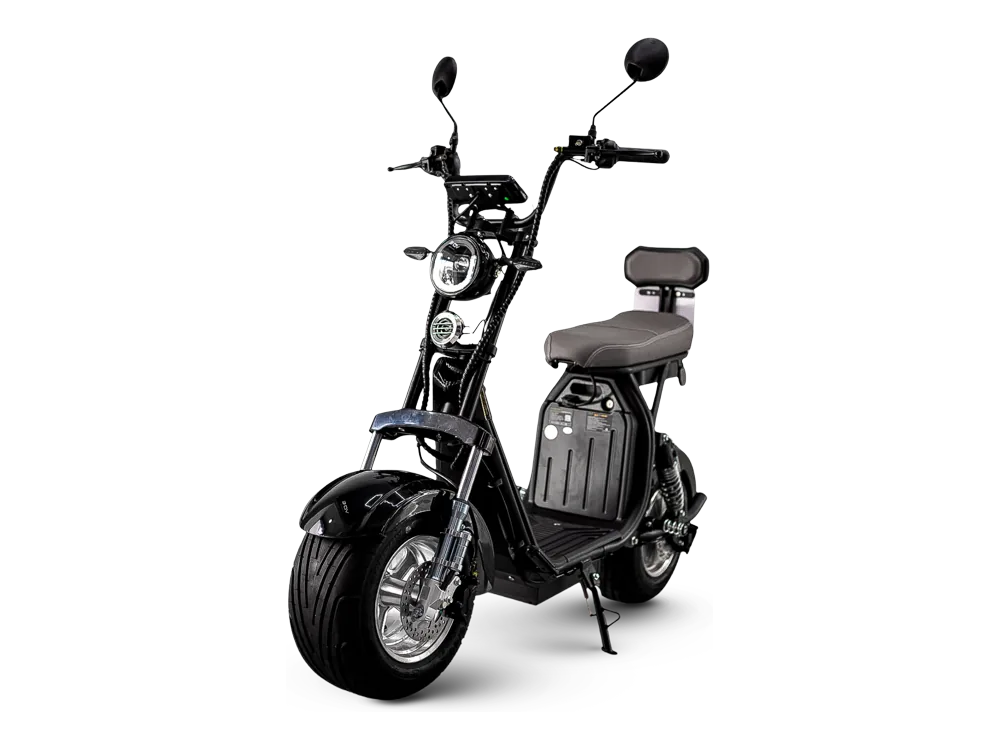
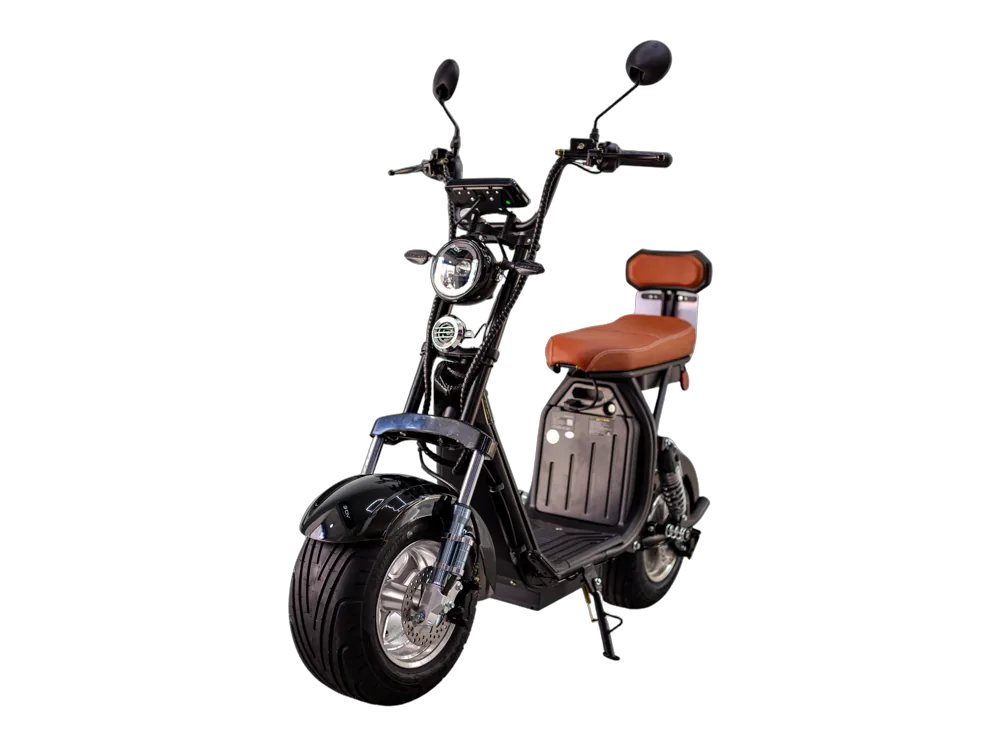
feat: capas novas e cores de Dot, Fantom, Sol, Calebito e X-Infinity
- Capas com as fotos novas recortadas: Susan, Dot, Fantom, Sol, Calebito,
  X-Infinity e X11 Mini (preta com banco caramelo).
- Fotos por cor em Dot, Fantom, Sol, Calebito e X-Infinity, com a cor
  carbono na X-Infinity.

Changed region(s): [[0.279, 0.0613, 0.713, 0.9507], [0.62, 0.0307, 0.682, 0.1227]]

diff --git a/assets/js/catalogo.js b/assets/js/catalogo.js
@@ -138,6 +138,11 @@ const COR = {
      dos dois tons e o bege puro sao a mesma pintura, com o mesmo hex. */
   vinhobege: { nome: 'Vinho e bege', bicolor: ['#58222C', '#DBD6C7'] },
   pretobege: { nome: 'Preto e bege', bicolor: ['#101011', '#DBD6C7'] },
+
+  /* Pintura com trama de fibra de carbono (X-Infinity). A bolinha é um
+     recorte da trama tirado da própria foto: em hex chapado ela seria um
+     cinza escuro quase igual à bolinha do preto ao lado. */
+  carbono: { nome: 'Carbono', hex: '#3A3A3A', imagem: 'assets/img/swatches/carbono.webp' },
 };
 
 const cores = (...chaves) => chaves.map((k) => COR[k]);
@@ -393,7 +398,8 @@ window.URBANA_MODELOS = [
     categoria: 'autopropelido',
     classificacao: 'autopropelido',
     descritivo: 'Bicicleta elétrica',
-    alt: 'Bicicleta elétrica Voe Calebito preta e branca com cesta, recorte sem fundo',
+    foto: 'assets/img/models/voe-calebito-capa.webp',
+    alt: 'Bicicleta elétrica Voe Calebito branca e preta com cesta, recorte sem fundo',
     specs: {
       ...VOE_AUTO,
       potencia: { valor: 500, unidade: 'W' },
@@ -403,12 +409,24 @@ window.URBANA_MODELOS = [
       ocupantes: 'Até 130 kg',
     },
     equipamentos: [...VOE_EQUIP_BASE, 'Travamento de roda traseira', 'Cesta frontal'],
-    cores: cores('branco', 'preto', 'cinza'),
+    /* Capa: a foto branca com o fundo removido (BiRefNet, via rembg; original
+       em MIDIAS/recortes/). Branco primeiro para o modal abrir nessa mesma foto.
+       A loja mandou foto só de branca e preta; o cinza do catálogo antigo saiu,
+       porque sem foto própria o swatch cinza mostraria a moto branca. */
+    cores: [
+      { ...COR.branco, galeria: [
+        { src: 'assets/img/models/voe-calebito-cor-branco.webp', alt: 'Voe Calebito branca e preta com cesta frontal, de perfil', recorte: false, inteira: true, fundo: '#FCFCFC' },
+      ] },
+      { ...COR.preto, galeria: [
+        { src: 'assets/img/models/voe-calebito-cor-preto.webp', alt: 'Voe Calebito preta com cesta frontal, de perfil', recorte: false, inteira: true, fundo: '#FDFDFD' },
+      ] },
+    ],
   }),
   voe('dot', 'Dot', {
     categoria: 'autopropelido',
     classificacao: 'autopropelido',
-    alt: 'Scooter elétrica Voe Dot cinza com baú, recorte sem fundo',
+    foto: 'assets/img/models/voe-dot-capa.webp',
+    alt: 'Scooter elétrica Voe Dot preta com faixa laranja, recorte sem fundo',
     specs: {
       ...VOE_AUTO,
       potencia: { valor: 1000, unidade: 'W' },
@@ -418,12 +436,29 @@ window.URBANA_MODELOS = [
       ocupantes: 'Até 150 kg',
     },
     equipamentos: [...VOE_EQUIP_BASE, 'Travamento de roda traseira', 'Retrovisores'],
-    cores: cores('branco', 'preto', 'cinza'),
+    /* Cores confirmadas pela loja: preta, branca e prata. A capa é a foto
+       preta com o fundo removido (BiRefNet, via rembg; original do recorte em
+       MIDIAS/recortes/): é a que mais vende, segundo a loja. A preta vem
+       primeiro para o modal abrir nessa mesma foto. O "cinza" do catálogo
+       antigo era a prata azulada. O COR.prata da paleta puxa para o rosado
+       (#A7A1A6); o hex aqui saiu da lataria. */
+    cores: [
+      { ...COR.preto, galeria: [
+        { src: 'assets/img/models/voe-dot-cor-preto.webp', alt: 'Voe Dot preta com faixa laranja, em três quartos frontal', recorte: false, inteira: true, fundo: '#FBFBFB' },
+      ] },
+      { ...COR.prata, hex: '#CFD0D4', galeria: [
+        { src: 'assets/img/models/voe-dot-cor-prata.webp', alt: 'Voe Dot prata com faixa laranja, em três quartos frontal', recorte: false, inteira: true, fundo: '#F9FAFA' },
+      ] },
+      { ...COR.branco, galeria: [
+        { src: 'assets/img/models/voe-dot-cor-branco.webp', alt: 'Voe Dot branca com faixa laranja, em três quartos frontal', recorte: false, inteira: true, fundo: '#F8F9F9' },
+      ] },
+    ],
   }),
   voe('fantom', 'Fantom', {
     categoria: 'autopropelido',
     classificacao: 'autopropelido',
-    alt: 'Scooter elétrica Voe Fantom branca com baú, recorte sem fundo',
+    foto: 'assets/img/models/voe-fantom-capa.webp',
+    alt: 'Scooter elétrica Voe Fantom branca e preta com baú, recorte sem fundo',
     specs: {
       ...VOE_AUTO,
       potencia: { valor: 1000, unidade: 'W' },
@@ -433,7 +468,20 @@ window.URBANA_MODELOS = [
       ocupantes: 'Até 150 kg',
     },
     equipamentos: [...VOE_EQUIP_BASE, 'Travamento de roda traseira', 'Retrovisores'],
-    cores: cores('branco', 'preto', 'cinza'),
+    /* Capa: a foto branca com o fundo removido (BiRefNet, via rembg; original
+       em MIDIAS/recortes/). Branco primeiro para o modal abrir nessa mesma
+       foto. O cinza saiu da lataria: o COR.cinza (#575757) é bem mais escuro. */
+    cores: [
+      { ...COR.branco, galeria: [
+        { src: 'assets/img/models/voe-fantom-cor-branco.webp', alt: 'Voe Fantom branca e preta com baú, de perfil em três quartos', recorte: false, inteira: true, fundo: '#FEFEFE' },
+      ] },
+      { ...COR.cinza, hex: '#919BA3', galeria: [
+        { src: 'assets/img/models/voe-fantom-cor-cinza.webp', alt: 'Voe Fantom cinza e preta com baú, de perfil em três quartos', recorte: false, inteira: true, fundo: '#FEFEFE' },
+      ] },
+      { ...COR.preto, galeria: [
+        { src: 'assets/img/models/voe-fantom-cor-preto.webp', alt: 'Voe Fantom preta com baú, de perfil em três quartos', recorte: false, inteira: true, fundo: '#FEFEFE' },
+      ] },
+    ],
   }),
   voe('lux', 'Lux', {
     categoria: 'autopropelido',
@@ -511,7 +559,8 @@ window.URBANA_MODELOS = [
     categoria: 'autopropelido',
     classificacao: 'autopropelido',
     descritivo: 'Bicicleta elétrica',
-    alt: 'Bicicleta elétrica Voe Sol preta com cesta e baú, recorte sem fundo',
+    foto: 'assets/img/models/voe-sol-capa.webp',
+    alt: 'Bicicleta elétrica Voe Sol preta com cesta frontal e baú, recorte sem fundo',
     specs: {
       ...VOE_AUTO,
       potencia: { valor: 1000, unidade: 'W' },
@@ -521,12 +570,28 @@ window.URBANA_MODELOS = [
       ocupantes: 'Até 150 kg',
     },
     equipamentos: [...VOE_EQUIP_BASE, 'Baú de 27 litros', 'Retrovisores', 'Cesta frontal'],
-    cores: cores('branco', 'preto', 'cinza'),
+    /* Cores confirmadas pela loja: preta, branca e prata (o "cinza" do
+       catálogo antigo). A capa é a foto preta com o fundo removido (BiRefNet,
+       via rembg; original em MIDIAS/recortes/), e a preta vem primeiro para o
+       modal abrir nessa mesma foto. A prata usa o tom da lataria: o COR.prata
+       da paleta puxa para o rosado. */
+    cores: [
+      { ...COR.preto, galeria: [
+        { src: 'assets/img/models/voe-sol-cor-preto.webp', alt: 'Voe Sol preta com cesta frontal e baú, em três quartos frontal', recorte: false, inteira: true, fundo: '#FAFAFC' },
+      ] },
+      { ...COR.branco, galeria: [
+        { src: 'assets/img/models/voe-sol-cor-branco.webp', alt: 'Voe Sol branca com cesta frontal e baú, em três quartos frontal', recorte: false, inteira: true, fundo: '#FDFDFD' },
+      ] },
+      { ...COR.prata, hex: '#CDCED0', galeria: [
+        { src: 'assets/img/models/voe-sol-cor-prata.webp', alt: 'Voe Sol prata com cesta frontal e baú, em três quartos frontal', recorte: false, inteira: true, fundo: '#FEFEFE' },
+      ] },
+    ],
   }),
   voe('susan', 'Susan', {
     categoria: 'autopropelido',
     classificacao: 'autopropelido',
-    alt: 'Scooter elétrica Voe Susan bordô e creme, desenho retrô, recorte sem fundo',
+    foto: 'assets/img/models/voe-susan-capa.webp',
+    alt: 'Scooter elétrica Voe Susan vinho e bege, desenho retrô, com baú, recorte sem fundo',
     specs: {
       ...VOE_AUTO,
       potencia: { valor: 1000, unidade: 'W' },
@@ -538,9 +603,10 @@ window.URBANA_MODELOS = [
     equipamentos: [...VOE_EQUIP_BASE, 'Baú', 'Retrovisores'],
     /* Cores confirmadas pela loja. As fotos são de estúdio, com fundo cinza:
        no modal cabem inteiras, e a área vazia leva o cinza da própria foto.
-       O card segue com o recorte do catálogo, que é a mesma pintura vinho e
-       bege: foto com fundo viraria um retângulo cinza numa vitrine de
-       recortes. Por isso vinho e bege vem primeiro, o modal abre nela. */
+       A capa é a MESMA foto vinho e bege, com o fundo removido (BiRefNet, via
+       rembg; original do recorte em MIDIAS/recortes/). Com fundo, ela viraria
+       um retângulo cinza numa vitrine de recortes. Vinho e bege vem primeiro
+       para o modal abrir na foto da capa. */
     cores: [
       { ...COR.vinhobege, galeria: [
         { src: 'assets/img/models/voe-susan-cor-vinhobege.webp', alt: 'Voe Susan vinho e bege, retrô, com baú vinho, em três quartos frontal', recorte: false, inteira: true, fundo: '#E5E7EA' },
@@ -588,7 +654,8 @@ window.URBANA_MODELOS = [
   voe('x-infinity', 'X-Infinity', {
     categoria: 'autopropelido',
     classificacao: 'autopropelido',
-    alt: 'Scooter elétrica Voe X-Infinity preta de pneus largos, recorte sem fundo',
+    foto: 'assets/img/models/voe-x-infinity-capa.webp',
+    alt: 'Scooter elétrica Voe X-Infinity preta com banco caramelo e pneus largos, recorte sem fundo',
     specs: {
       ...VOE_AUTO,
       potencia: { valor: 1000, unidade: 'W' },
@@ -602,13 +669,34 @@ window.URBANA_MODELOS = [
       ...VOE_EQUIP_BASE, 'Marcha ré', 'Modo parking', 'Banco com espaço para garupa',
       'Botão de alerta', 'Bloqueio na roda traseira', 'Roda dianteira de liga aro 10',
     ],
-    cores: cores('branco', 'preto', 'cinza', 'vermelho', 'azul'),
+    /* Capa: a foto preta com o fundo removido (BiRefNet, via rembg; original
+       em MIDIAS/recortes/). Preta primeiro para o modal abrir nessa mesma
+       foto. Carbono entra no lugar do cinza do catálogo antigo. Vermelho e
+       azul usam o tom da lataria iluminada: os da paleta são um vermelho
+       vivo e um ciano, e esta pintura é vermelho escuro e azul royal. */
+    cores: [
+      { ...COR.preto, galeria: [
+        { src: 'assets/img/models/voe-x-infinity-cor-preto.webp', alt: 'Voe X-Infinity preta com banco caramelo, em três quartos frontal', recorte: false, inteira: true, fundo: '#FDFDFD' },
+      ] },
+      { ...COR.branco, galeria: [
+        { src: 'assets/img/models/voe-x-infinity-cor-branco.webp', alt: 'Voe X-Infinity branca com banco caramelo, em três quartos frontal', recorte: false, inteira: true, fundo: '#FDFDFD' },
+      ] },
+      { ...COR.carbono, galeria: [
+        { src: 'assets/img/models/voe-x-infinity-cor-carbono.webp', alt: 'Voe X-Infinity com acabamento em fibra de carbono e banco preto, em três quartos frontal', recorte: false, inteira: true, fundo: '#FCFCFC' },
+      ] },
+      { ...COR.vermelho, hex: '#A1040B', galeria: [
+        { src: 'assets/img/models/voe-x-infinity-cor-vermelho.webp', alt: 'Voe X-Infinity vermelha com banco preto, em três quartos frontal', recorte: false, inteira: true, fundo: '#FCFCFC' },
+      ] },
+      { ...COR.azul, hex: '#003AB7', galeria: [
+        { src: 'assets/img/models/voe-x-infinity-cor-azul.webp', alt: 'Voe X-Infinity azul com banco preto, em três quartos frontal', recorte: false, inteira: true, fundo: '#FDFDFD' },
+      ] },
+    ],
   }),
   voe('x11-mini', 'X11 Mini', {
     categoria: 'autopropelido',
     classificacao: 'autopropelido',
-    foto: 'assets/img/models/voe-x11-mini-cor-vermelho.webp',
-    alt: 'Scooter elétrica Voe X11 Mini vermelha e preta de pneus largos, recorte sem fundo',
+    foto: 'assets/img/models/voe-x11-mini-cor-preto.webp',
+    alt: 'Scooter elétrica Voe X11 Mini preta com banco caramelo e pneus largos, recorte sem fundo',
     specs: {
       ...VOE_AUTO,
       potencia: { valor: 1000, unidade: 'W' },
@@ -621,19 +709,19 @@ window.URBANA_MODELOS = [
       'Carregador bivolt', 'Tecnologia NFC', 'Painel, faróis e setas em LED',
       'Quadro em aço de carbono', 'Bateria removível',
     ],
-    /* Vermelha primeiro: era a cor da foto principal e continua sendo. O que
+    /* Preta primeiro: é a capa, a pedido da loja, e o modal abre nela. O que
        muda de cor são os para-lamas, e o hex de azul e grafite foi amostrado
        neles: o COR.azul é ciano claro, e o grafite desta pintura é mais quente
        e mais claro que o do X11. Grafite entrou no lugar do cinza. */
     cores: [
+      { ...COR.preto, galeria: [
+        { src: 'assets/img/models/voe-x11-mini-cor-preto.webp', alt: 'Voe X11 Mini preta com banco caramelo, em três quartos frontal' },
+      ] },
       { ...COR.vermelho, galeria: [
         { src: 'assets/img/models/voe-x11-mini-cor-vermelho.webp', alt: 'Voe X11 Mini com para-lamas vermelhos e banco preto, em três quartos frontal' },
       ] },
       { ...COR.branco, galeria: [
         { src: 'assets/img/models/voe-x11-mini-cor-branco.webp', alt: 'Voe X11 Mini com para-lamas brancos e banco caramelo, em três quartos frontal' },
-      ] },
-      { ...COR.preto, galeria: [
-        { src: 'assets/img/models/voe-x11-mini-cor-preto.webp', alt: 'Voe X11 Mini preta com banco preto, em três quartos frontal' },
       ] },
       { ...COR.grafite, hex: '#6C6162', galeria: [
         { src: 'assets/img/models/voe-x11-mini-cor-grafite.webp', alt: 'Voe X11 Mini com para-lamas grafite e banco caramelo, em três quartos frontal' },
